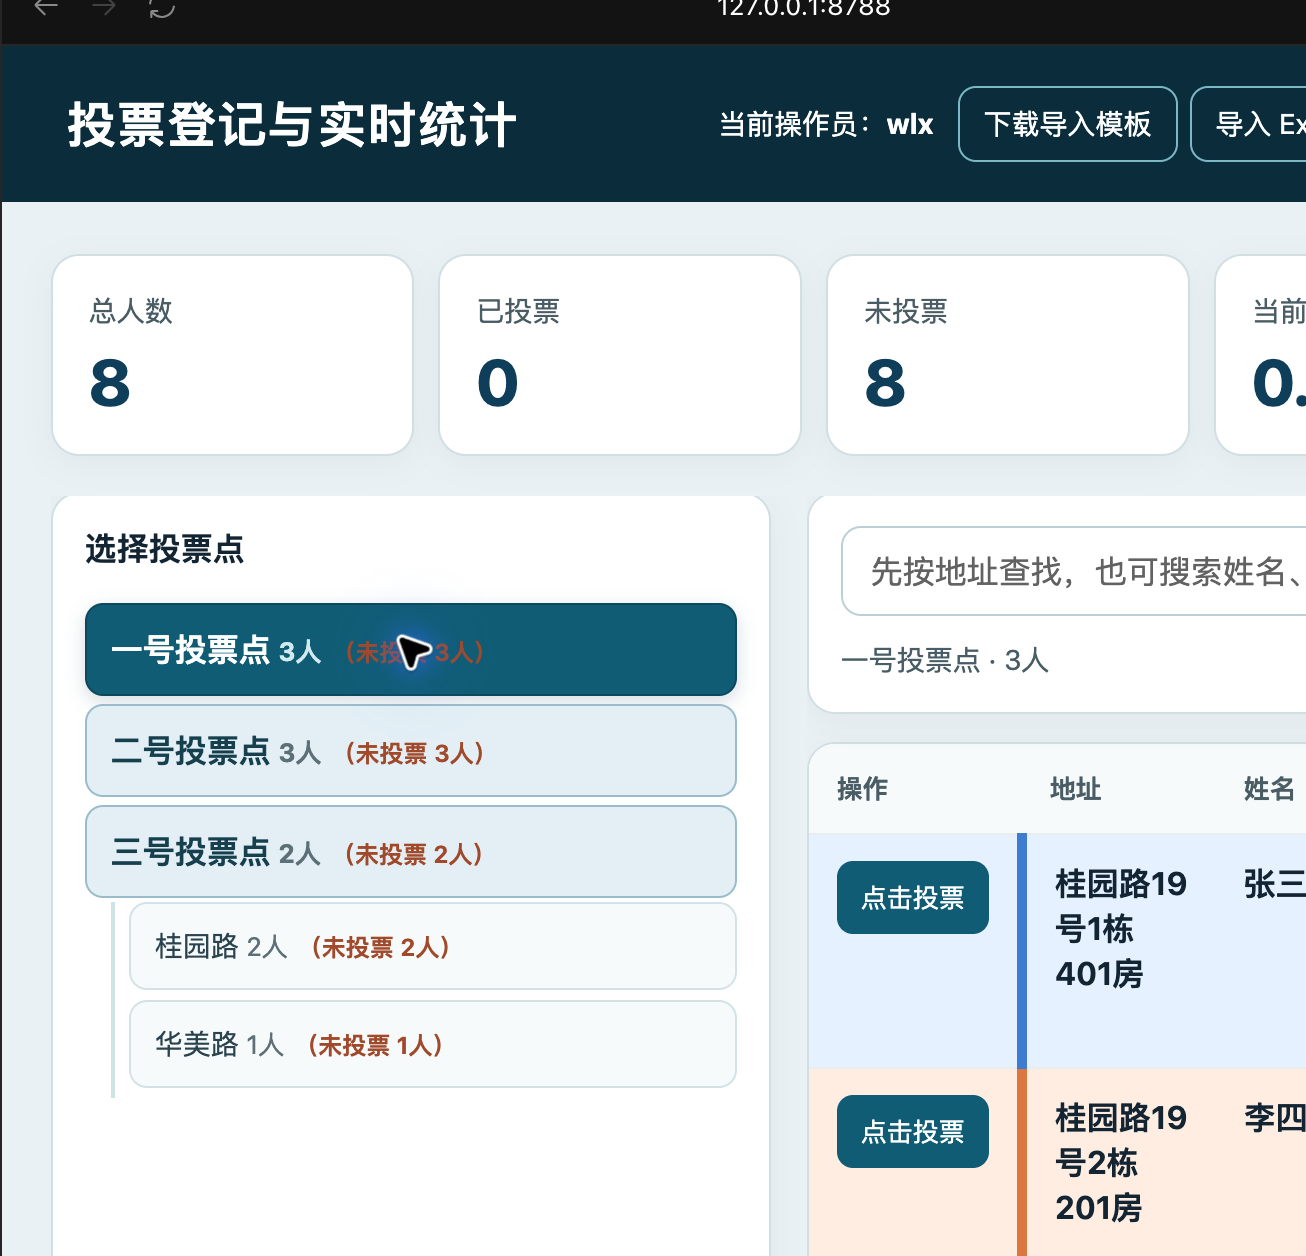
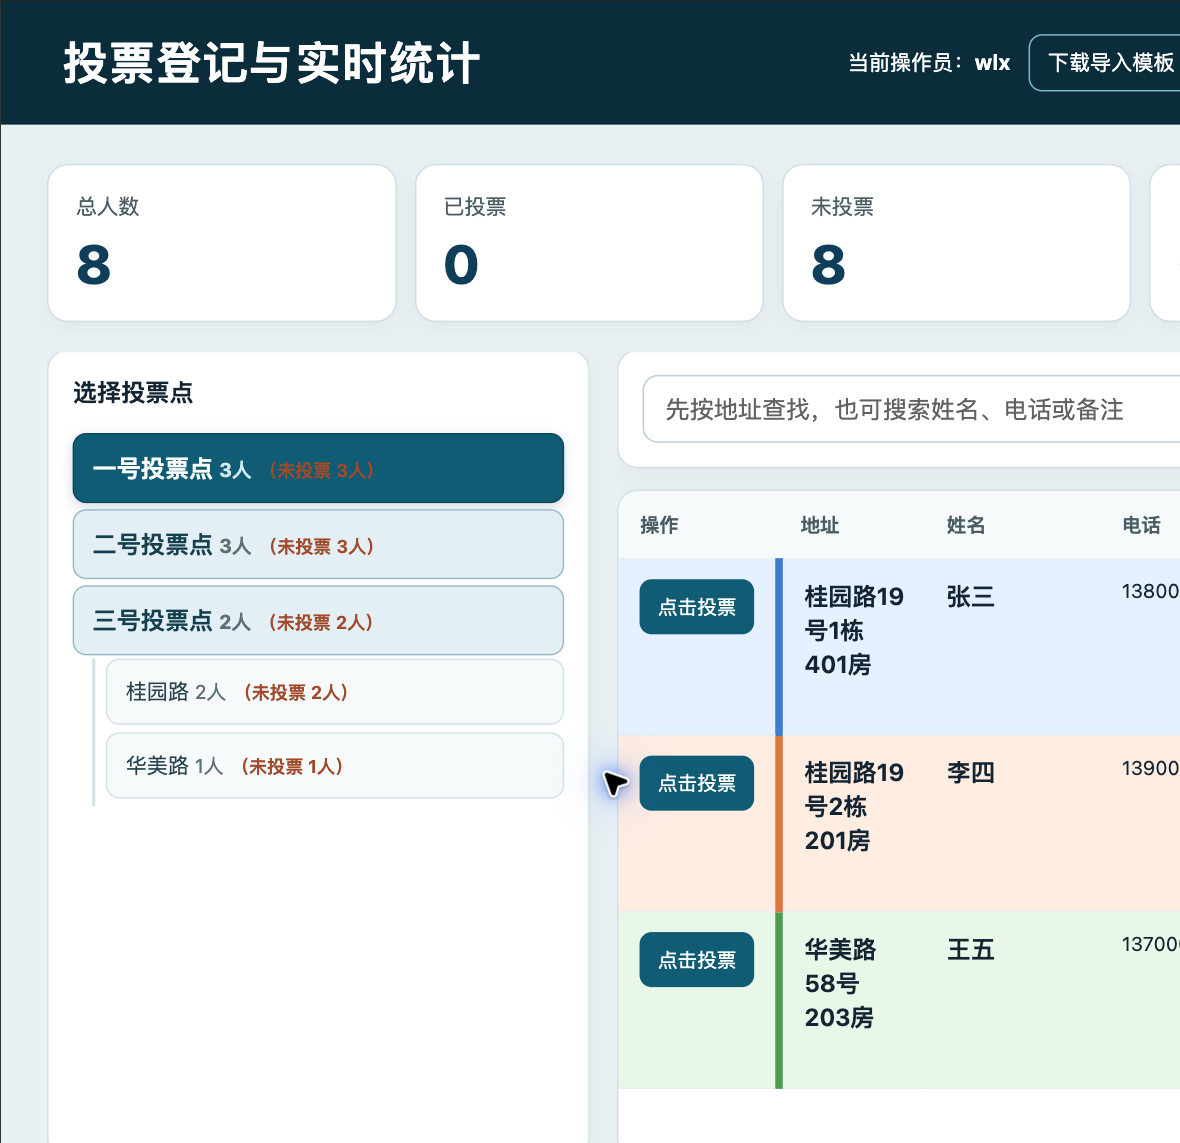
docs: add desktop and mobile screenshots

diff --git a/docs/USAGE.md b/docs/USAGE.md
@@ -24,9 +24,15 @@
 - **可追溯、可纠错**：投票记录包含操作员和时间，误登记可以撤销，便于事后核对。
 - **从 Excel 快速开始**：电脑端提供标准模板和导入预览，客户无需手工改代码即可准备新一轮名单。
 
-主页面示例（虚构数据）：
+主页面示例使用虚构数据，分别展示桌面端和手机端：
 
-![投票登记与实时统计主页面示例](main-page.png)
+**桌面端完整页面**
+
+![投票登记与实时统计桌面端完整页面](main-page.png)
+
+**手机端完整页面**
+
+![投票登记与实时统计手机端完整页面](main-page-mobile.png)
 
 ## 2. 功能特点
 

diff --git a/README.md b/README.md
@@ -17,9 +17,15 @@
 
 ## 主页面示例
 
-截图使用虚构示例数据，仅用于直观展示页面结构和实时统计区。
+以下截图使用虚构示例数据，用于展示电脑端和手机端的实际使用界面。
 
-![投票登记与实时统计主页面示例](docs/main-page.png)
+### 桌面端完整页面
+
+![投票登记与实时统计桌面端完整页面](docs/main-page.png)
+
+### 手机端完整页面
+
+![投票登记与实时统计手机端完整页面](docs/main-page-mobile.png)
 
 ## 功能
 
